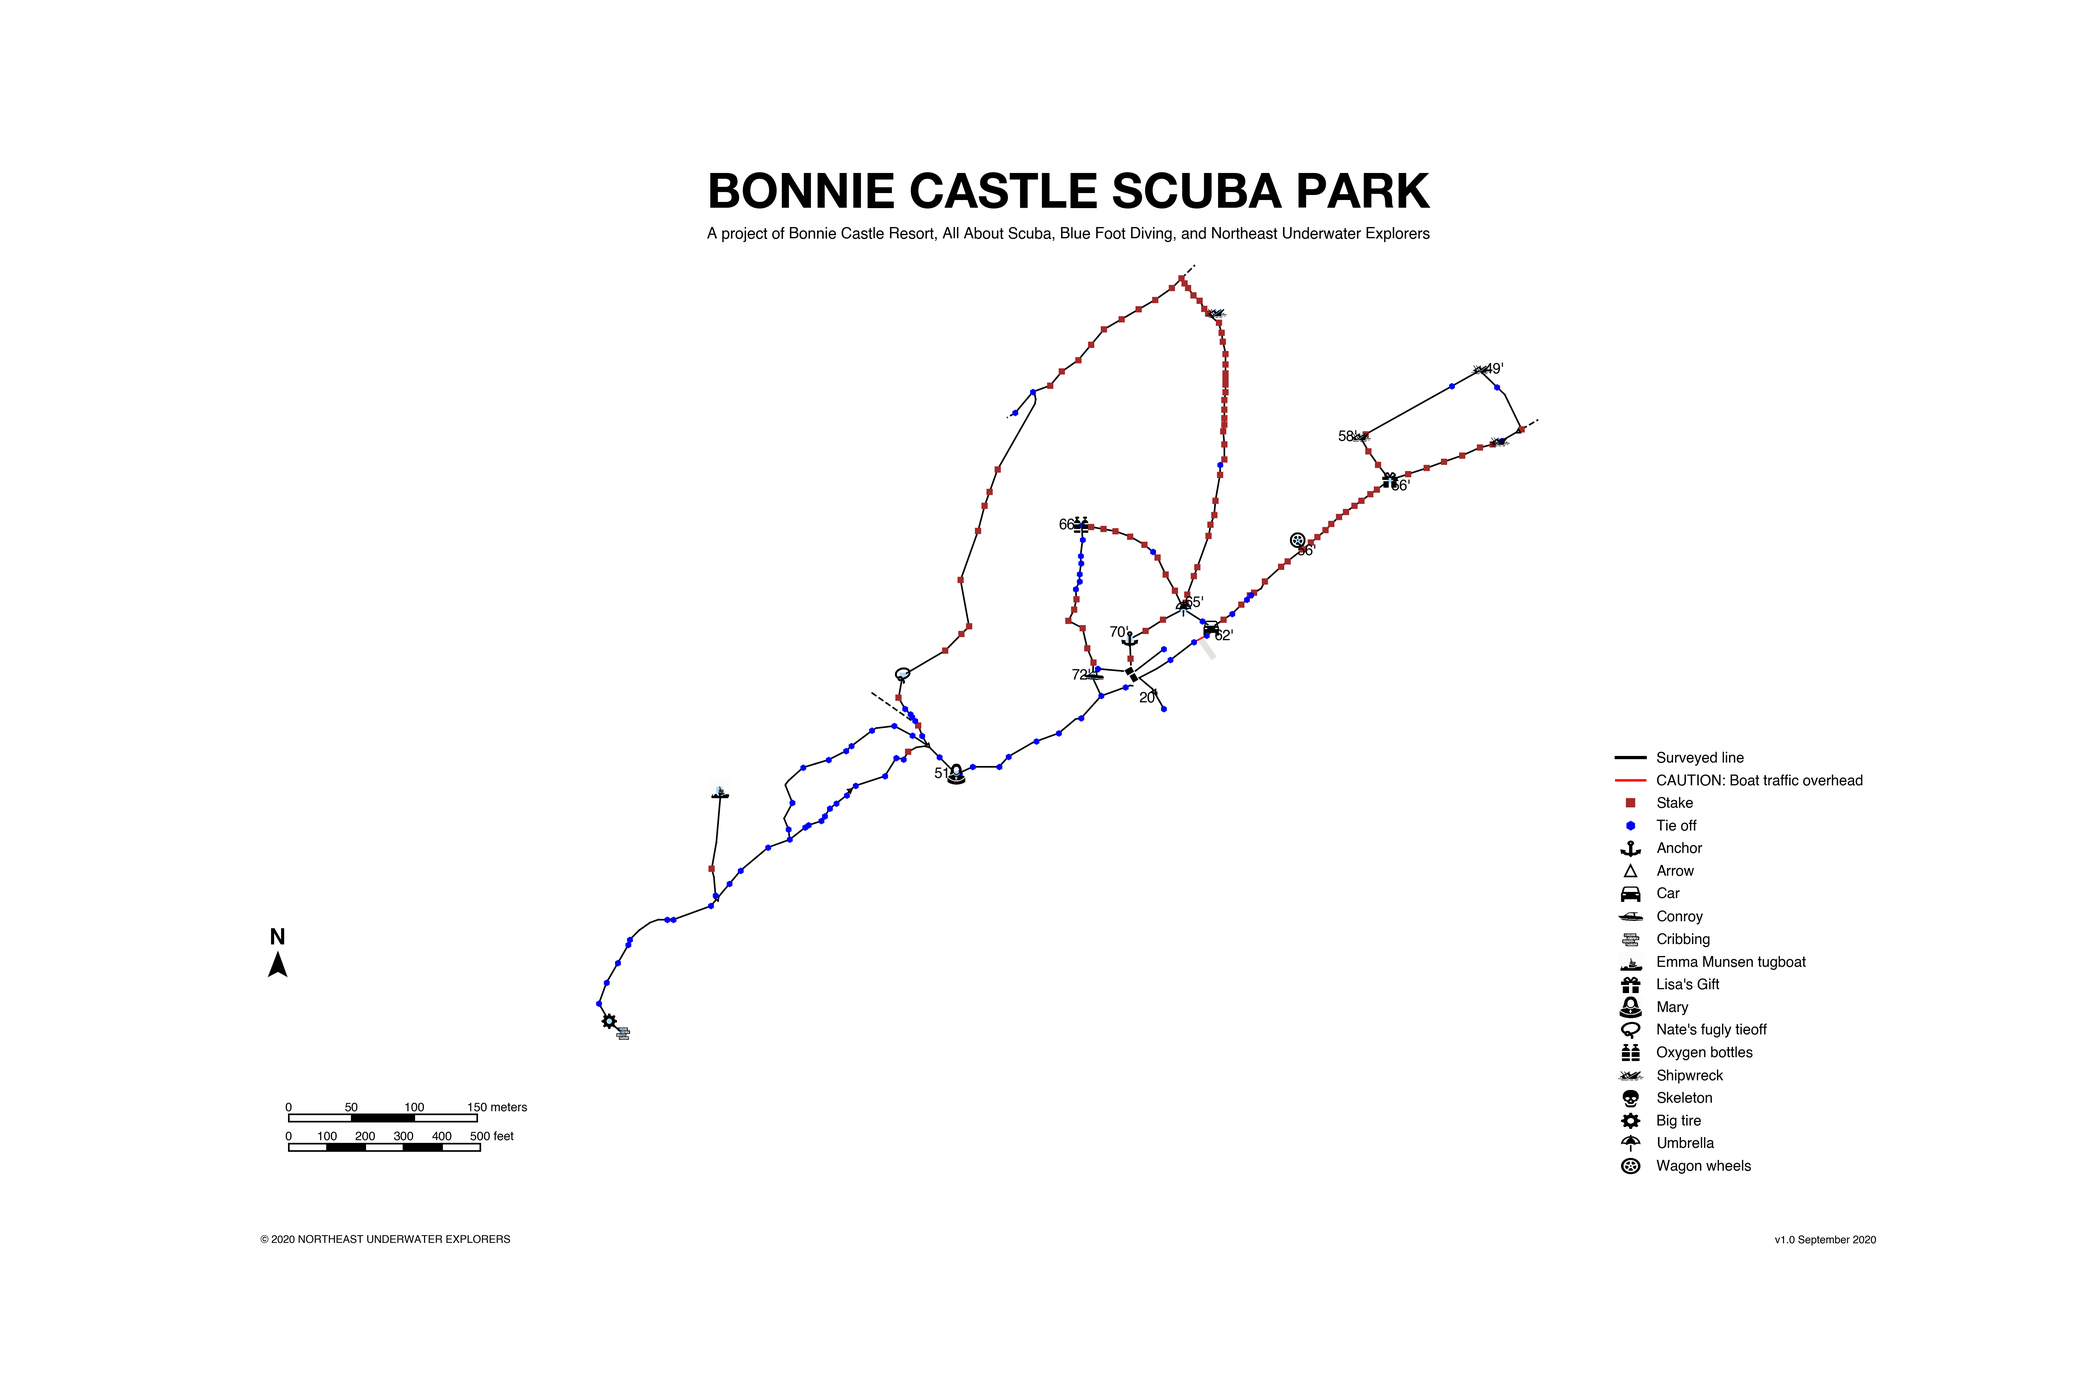
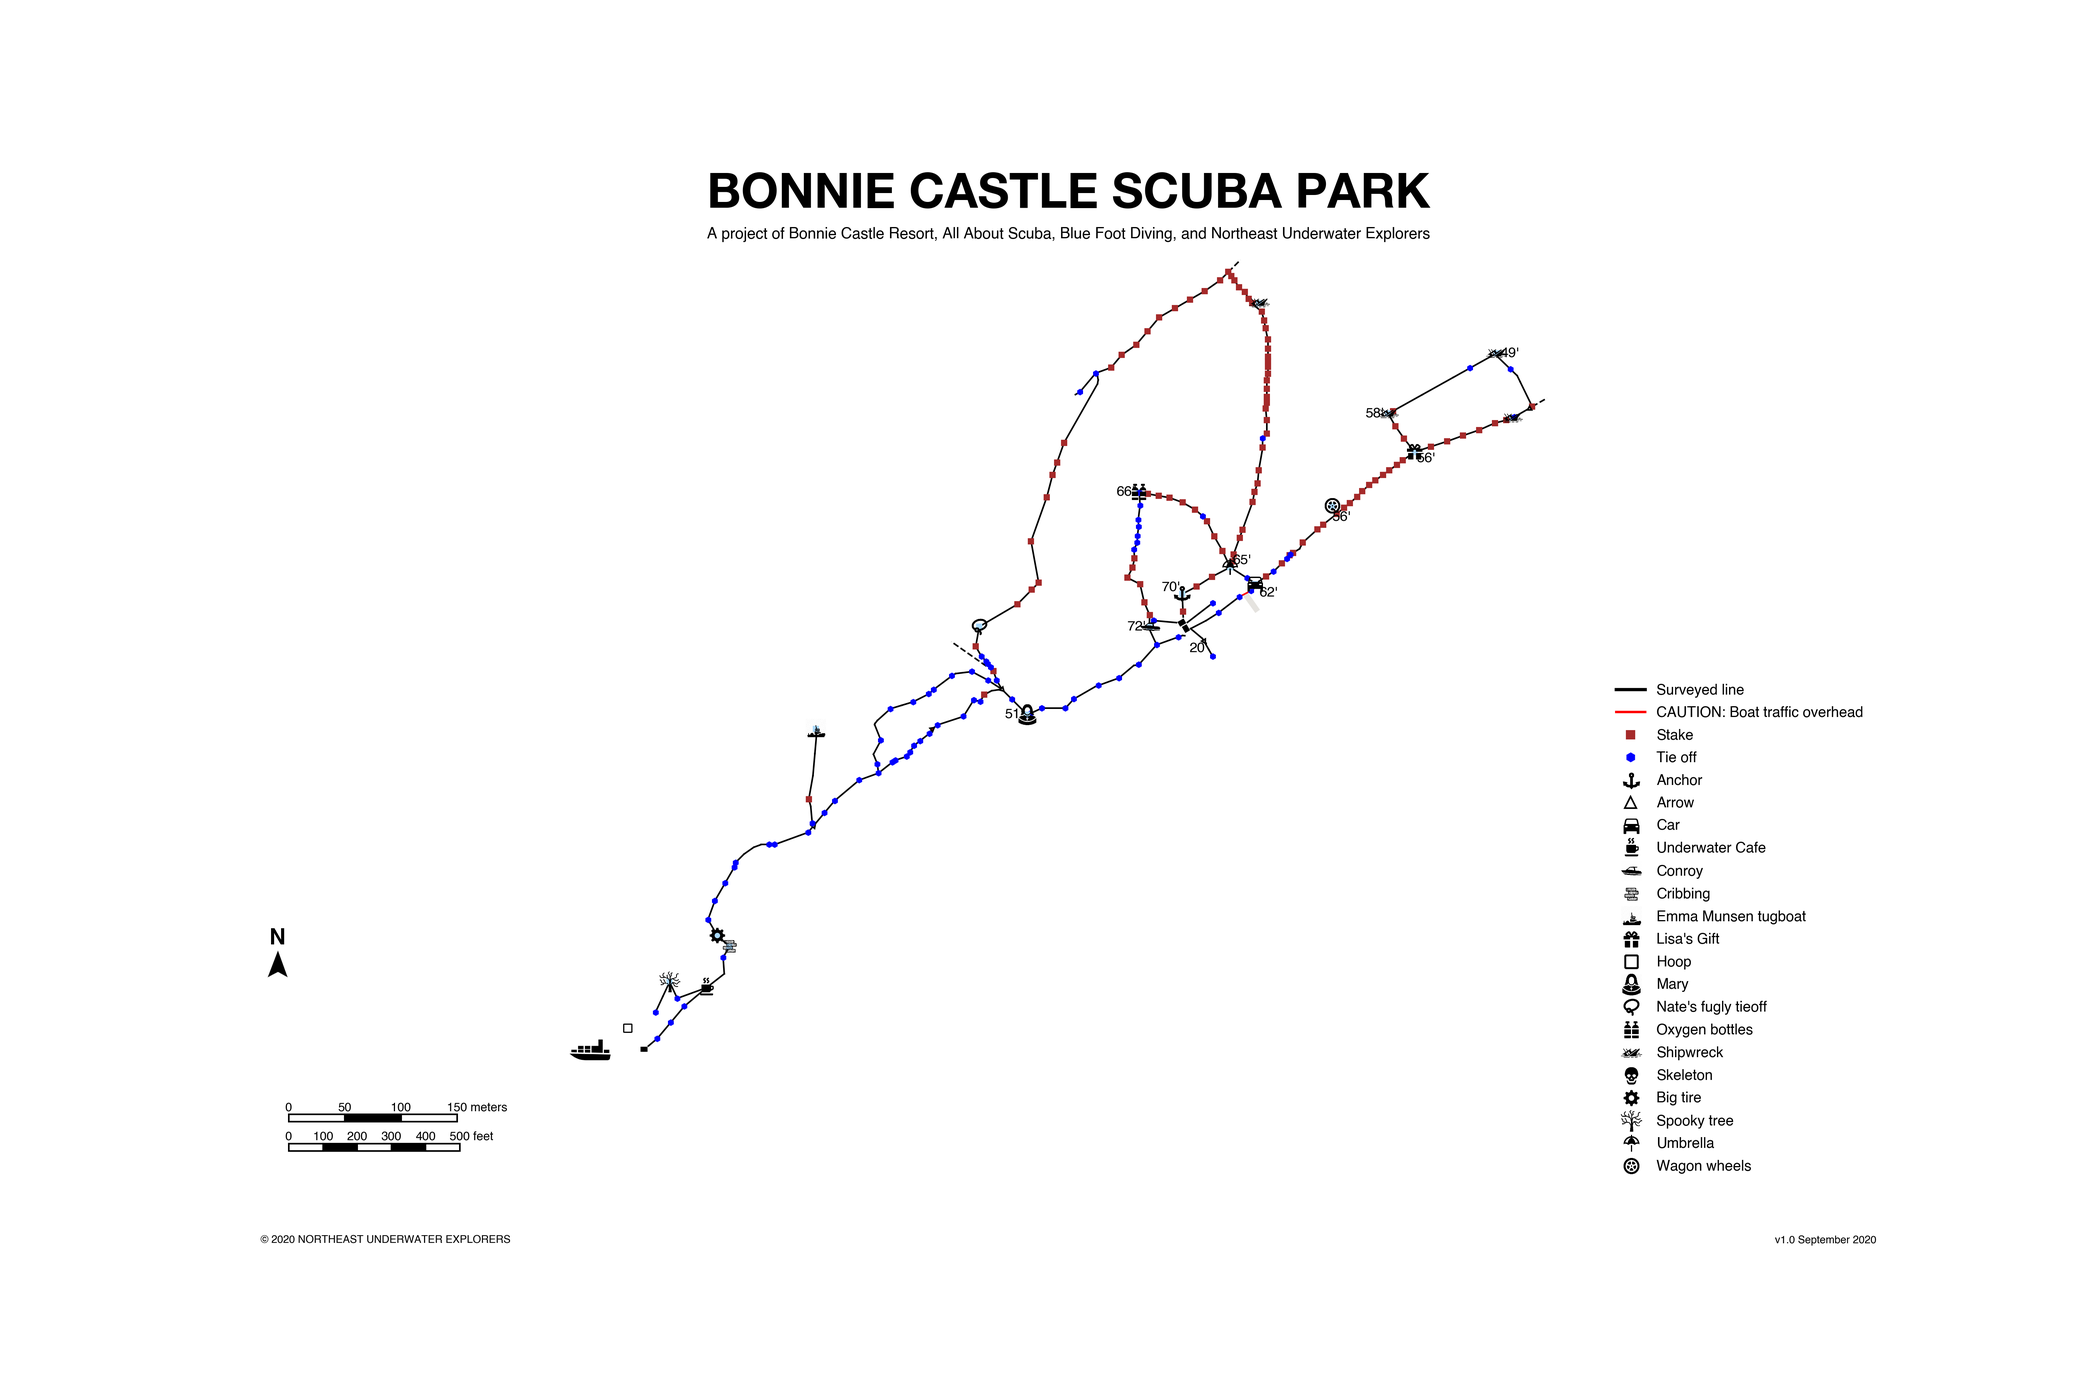
Add survey data near the islander

diff --git a/data.py b/data.py
@@ -57,6 +57,12 @@ class Landmark(Enum):
     TRACTOR_TIRE = 36
     MARY =37
     CRIBBING=38
+    CAFE = 39
+    ISLANDER_PLATFORM = 40
+    SPOOKY_TREE = 41
+    JUG = 42
+    ISLANDER = 43
+    HOOP = 44
 
 @dataclass(frozen=True)
 class AbstractLine:
@@ -138,10 +144,10 @@ BarToPlatform = (
     Arrow(distance=8, angle=150),
     # TieOff(), JP's tent
     SurveyedLine(length_in=9, angle=325),
-    SaveLandmark(Landmark.MOORING_BLOCK_20FT, depth_angle=200, depth=20, depth_distance_zoom=0.8, icon_path='icons/mooringblock.png', transparent_icon=True),
+    SaveLandmark(landmark=Landmark.MOORING_BLOCK_20FT, depth_angle=200, depth=20, depth_distance_zoom=0.8, icon_path='icons/mooringblock.png', transparent_icon=True),
     SurveyedLine(length_ft=44, length_in=8, angle=310),
-    # SaveLandmark(Landmark.SKELETON, depth=64,depth_angle=50, depth_distance_zoom=1.15, icon_path='icons/mooringblock.png', transparent_icon=True),
-    SaveLandmark(Landmark.SKELETON, icon_path='icons/mooringblock.png', transparent_icon=True),
+    # SaveLandmark(landmark=Landmark.SKELETON, depth=64,depth_angle=50, depth_distance_zoom=1.15, icon_path='icons/mooringblock.png', transparent_icon=True),
+    SaveLandmark(landmark=Landmark.SKELETON, icon_path='icons/mooringblock.png', transparent_icon=True),
     )
 
 SkeletonToMooringBlock2ViaPokerRun = (
@@ -150,9 +156,9 @@ SkeletonToMooringBlock2ViaPokerRun = (
     TieOff(),
     SurveyedLine(length_ft=72, angle=50),
     TieOff(force_draw=True),
-    SaveLandmark(Landmark.BOAT_RAMP_1),
+    SaveLandmark(landmark=Landmark.BOAT_RAMP_1),
     MarinaLine(length_ft=35, length_in=10, angle=60),
-    SaveLandmark(Landmark.BOAT_RAMP_2),
+    SaveLandmark(landmark=Landmark.BOAT_RAMP_2),
     TieOff(force_draw=True),
     SurveyedLine(length_ft=20, length_in=8, angle=50),
     Jump(length_ft=8, angle=315),
@@ -187,7 +193,7 @@ SkeletonToMooringBlock2ViaMooringBlocks = (
 
 MooringBlock2ToMooringBlock1 = (
     Jump(length_ft=25, length_in=9, angle=230),
-    SaveLandmark(Landmark.MOORING_BLOCK_1, icon_path='icons/mooringblock.png', transparent_icon=True),
+    SaveLandmark(landmark=Landmark.MOORING_BLOCK_1, icon_path='icons/mooringblock.png', transparent_icon=True),
     )
 
 MooringBlock1ToMooringBlock5ViaPokerRun = (
@@ -199,7 +205,7 @@ MooringBlock1ToMooringBlock5ViaPokerRun = (
     Jump(length_ft=6, length_in=4, angle=200),
     SurveyedLine(length_ft=49, length_in=2, angle=160),
     TieOff(),
-    SaveLandmark(Landmark.ANGLE_IRON),
+    SaveLandmark(landmark=Landmark.ANGLE_IRON),
     SurveyedLine(length_ft=65, length_in=10, angle=75),
     TieOff(),
     SurveyedLine(length_ft=12, length_in=1, angle=75),
@@ -413,7 +419,7 @@ UmbrellaToRockIsland = (
     Stake(),
     SurveyedLine(length_ft=22, angle=310, flip_text_side=True),
     SurveyedLine(length_ft=15, angle=40),
-    SaveLandmark(Landmark.ROWBOAT, icon_path='icons/shipwreck.png'),
+    SaveLandmark(landmark=Landmark.ROWBOAT, icon_path='icons/shipwreck.png'),
     Jump(length_ft=15, angle=220),
     SurveyedLine(length_ft=15, angle=315, flip_text_side=True),
     Stake(),
@@ -429,7 +435,7 @@ UmbrellaToRockIsland = (
     Stake(),
     SurveyedLine(length_ft=15, angle=325),
     Stake(),
-    SaveLandmark(Landmark.ROCK_ISLAND_BOTTLE)
+    SaveLandmark(landmark=Landmark.ROCK_ISLAND_BOTTLE)
     )
 
 UmbrellaToOxygenTanks = (
@@ -454,7 +460,7 @@ UmbrellaToOxygenTanks = (
     SurveyedLine(length_ft=32, length_in=6, angle=280),
     Stake(),
     SurveyedLine(length_ft=27, angle=280),
-    SaveLandmark(Landmark.OXYGEN_TANKS, depth=66, depth_angle=270, icon_path='glyphicons-pro/glyphicons-basic-2-3/png/glyphicons-basic-256-oxygen-bottles@3x.png'),
+    SaveLandmark(landmark=Landmark.OXYGEN_TANKS, depth=66, depth_angle=270, icon_path='glyphicons-pro/glyphicons-basic-2-3/png/glyphicons-basic-256-oxygen-bottles@3x.png'),
 )
 
 UmbrellaToOxygenTanksTruncated = (
@@ -482,7 +488,7 @@ RockIslandBottleClockwise = (
     Stake(),
     SurveyedLine(length_ft=48, angle=250),
     TieOff(),
-    SaveLandmark(Landmark.ROCK_ISLAND_T)
+    SaveLandmark(landmark=Landmark.ROCK_ISLAND_T)
     )
 
 RockIslandTClockwise = (
@@ -515,7 +521,7 @@ AngleIronToMary = (
     TieOff(),
     SurveyedLine(length_ft=9, angle=250, alt_text=''),
     TieOff(force_draw=True),
-    SaveLandmark(Landmark.MARY, icon_path='icons/mary.png', depth=51, depth_angle=270),
+    SaveLandmark(landmark=Landmark.MARY, icon_path='icons/mary.png', depth=51, depth_angle=270),
     )
 
 AngleIronToMaryTruncated = (
@@ -526,7 +532,7 @@ MaryToFourWay = (
     SurveyedLine(length_ft=63, angle=315),
     TieOff(),
     SurveyedLine(length_ft=42, angle=315, flip_text_side=True),
-    SaveLandmark(Landmark.FOUR_WAY),
+    SaveLandmark(landmark=Landmark.FOUR_WAY),
     )
 
 JJJ = (
@@ -560,7 +566,7 @@ JJJ = (
     TieOff(),
     SurveyedLine(length_ft=53, angle=230),
     TieOff(),
-    SaveLandmark(Landmark.BYPASS_END_JJJ),
+    SaveLandmark(landmark=Landmark.BYPASS_END_JJJ),
     )
 
 FourWayToNatesTieoff = (
@@ -582,7 +588,7 @@ FourWayToNatesTieoff = (
     SurveyedLine(length_ft=34, angle=330),
     Stake(),
     SurveyedLine(length_ft=59, angle=10),
-    SaveLandmark(Landmark.NATES_TIEOFF, icon_path='glyphicons-pro/glyphicons-basic-2-3/png/glyphicons-basic-233-lasso@3x.png'),
+    SaveLandmark(landmark=Landmark.NATES_TIEOFF, icon_path='glyphicons-pro/glyphicons-basic-2-3/png/glyphicons-basic-233-lasso@3x.png'),
     )
 
 NatesTieoffToRockIsland = (
@@ -634,7 +640,7 @@ FourWayToBypassEndSixtyFoot = (
     SurveyedLine(length_ft=30, angle=160),
     TieOff(),
     SurveyedLine(length_ft=26, angle=175),
-    SaveLandmark(Landmark.BYPASS_END_SIXTY_FOOT),
+    SaveLandmark(landmark=Landmark.BYPASS_END_SIXTY_FOOT),
     )
 
 BypassEndToBobsArrow = (
@@ -646,7 +652,7 @@ BypassEndToBobsArrow = (
     TieOff(),
     SurveyedLine(length_ft=50, angle=220),
     Arrow(distance=0, angle=40),
-    SaveLandmark(Landmark.BOBS_ARROW)
+    SaveLandmark(landmark=Landmark.BOBS_ARROW)
     )
 
 BobsArrowToEmmaMunsen = (
@@ -659,10 +665,10 @@ BobsArrowToEmmaMunsen = (
     SurveyedLine(length_ft=65, angle=5),
     SurveyedLine(length_ft=50, angle=5),
     SurveyedLine(length_ft=22, angle=355),
-    SaveLandmark(Landmark.EMMA_MUNSEN, icon_path='icons/tugboat.png')
+    SaveLandmark(landmark=Landmark.EMMA_MUNSEN, icon_path='icons/tugboat.png')
 )
 
-BobsArrowToIslander = (
+BobsArrowToIslanderPlatform = (
     SurveyedLine(length_ft=25, angle=220),
     TieOff(),
     SurveyedLine(length_ft=104, angle=250),
@@ -683,14 +689,44 @@ BobsArrowToIslander = (
     SurveyedLine(length_ft=58, angle=200),
     TieOff(),
     SurveyedLine(length_ft=54, angle=150),
-    SaveLandmark(Landmark.TRACTOR_TIRE, icon_path='glyphicons-pro/glyphicons-basic-2-3/png/glyphicons-basic-137-cogwheel@3x.png'),
+    SaveLandmark(landmark=Landmark.TRACTOR_TIRE, icon_path='glyphicons-pro/glyphicons-basic-2-3/png/glyphicons-basic-137-cogwheel@3x.png'),
     SurveyedLine(length_ft=48, angle=132),
-    SaveLandmark(Landmark.CRIBBING, icon_path='icons/cribbing.png'),
+    SaveLandmark(landmark=Landmark.CRIBBING, icon_path='icons/cribbing.png'),
+    Jump(length_ft=0, angle=0), # TODO
+    SurveyedLine(length_ft=37, angle=210),
+    TieOff(),
+    SurveyedLine(length_ft=48, angle=176),
+    SurveyedLine(length_ft=66, angle=232),
+    SaveLandmark(landmark=Landmark.CAFE, icon_path='glyphicons-pro/glyphicons-basic-2-3/png/glyphicons-basic-273-coffee-mug@3x.png'),
+    SurveyedLine(length_ft=85, angle=230),
+    TieOff(),
+    SurveyedLine(length_ft=61, angle=220),
+    TieOff(),
+    SurveyedLine(length_ft=62, angle=220),
+    TieOff(),
+    SurveyedLine(length_ft=34, angle=230),
+    SaveLandmark(landmark=Landmark.ISLANDER_PLATFORM),
 )
+
+CafeToSpookyTreeToIslander = (
+    SurveyedLine(length_ft=91, angle=250),
+    TieOff(),
+    SurveyedLine(length_ft=53, angle=335),
+    SaveLandmark(landmark=Landmark.SPOOKY_TREE, icon_path='icons/spookytree.png'),
+    SurveyedLine(length_ft=47, angle=205),
+    SurveyedLine(length_ft=51, angle=205),
+    SaveLandmark(landmark=Landmark.JUG),
+    TieOff(), # THIS IS THE JUG
+    Jump(length_ft=94, angle=240),
+    SaveLandmark(landmark=Landmark.HOOP, icon_path='glyphicons-pro/glyphicons-basic-2-3/png/glyphicons-basic-154-square-empty@2x.png', transparent_icon=True),
+    Jump(length_ft=87, angle=240),
+    Jump(length_ft=40, angle=240), # THIS IS A FUDGE, ISLANDER IS 120 FEET LONG but we measured nearer to the stern
+    SaveLandmark(landmark=Landmark.ISLANDER, icon_path='icons/islander.png', transparent_icon=True),
+    )
     
 
 ExampleData = (
-    SaveLandmark(Landmark.MY_BOAT, icon_path='icons/shipwreck.png'),
+    SaveLandmark(landmark=Landmark.MY_BOAT, icon_path='icons/shipwreck.png'),
     SurveyedLine(length_ft=100, angle=90),
     Stake(),
     UnsurveyedLine(length_ft=100, angle=45, alt_text='(Unsurveyed line)'),

diff --git a/the_survey.py b/the_survey.py
@@ -5,6 +5,7 @@ from base import (
     draw_boat_ramp,
     draw_circuit,
     draw_compass_rose,
+    draw_islander_platforms,
     draw_platforms,
     draw_scale,
     get_landmark_coordinates,
@@ -15,8 +16,9 @@ from data import (
     AngleIronToMary,
     BarToPlatform,
     BobsArrowToEmmaMunsen,
-    BobsArrowToIslander,
+    BobsArrowToIslanderPlatform,
     BypassEndToBobsArrow,
+    CafeToSpookyTreeToIslander,
     CarToLisasGift,
     ConroyToOxygenTanks,
     FourWayToBypassEndSixtyFoot,
@@ -52,12 +54,12 @@ ax.set_aspect(aspect='equal')
 
 FONTSIZE=30
 LANDMARK_ZOOM=40
-LEGEND_IMAGE_STRETCH=(-2, 7)
-LEGEND_IMAGE_OFFSET=(-1, 3)
+LEGEND_IMAGE_STRETCH=(-5, 7)
+LEGEND_IMAGE_OFFSET=(-2, 3)
 
 draw_kwargs = {
-    'depth_distance': 1.10 * FONTSIZE,
-    'depth_fontsize': 0.30 * FONTSIZE,
+    'depth_distance': 1.3 * FONTSIZE,
+    'depth_fontsize': 0.29 * FONTSIZE,
     'draw_tieoffs': True,
     'include_depth': True,
     'include_mooringblocks': False,
@@ -110,11 +112,13 @@ draw_circuit(ax, Landmark.FOUR_WAY, FourWayToBypassEndSixtyFoot, JJJ, **draw_kwa
 
 draw(ax, Landmark.BYPASS_END_JJJ, BypassEndToBobsArrow, **draw_kwargs)
 
-draw(ax, Landmark.BOBS_ARROW, BobsArrowToIslander, **draw_kwargs)
+draw(ax, Landmark.BOBS_ARROW, BobsArrowToIslanderPlatform, **draw_kwargs)
 
 draw(ax, Landmark.BOBS_ARROW, BobsArrowToEmmaMunsen, **draw_kwargs)
 
 draw(ax, Landmark.ROCK_ISLAND_BOTTLE, RockIslandBottleClockwise, **draw_kwargs)
+
+draw(ax, Landmark.CAFE, CafeToSpookyTreeToIslander, **draw_kwargs)
 
 ######
 #
@@ -167,6 +171,7 @@ plt.ylim(y_min, y_max)
 
 # draw_compass_rose()
 draw_platforms(fontsize=None)
+draw_islander_platforms(fontsize=None)
 draw_boat_ramp()
 draw_scale(corner_coordinates=((x_min, y_min), (x_max, y_max)), fontsize=0.25 * FONTSIZE, feet=(0, 100, 200, 300, 400, 500), meters=(0, 50, 100, 150))
 draw_compass_rose(ax, corner_coordinates=((x_min, y_min), (x_max, y_max)), zoom=0.05)
@@ -188,31 +193,37 @@ MARINA_LINE = Line2D([0], [0], label='CAUTION: Boat traffic overhead', color='re
 
 ANCHOR = Line2D([0], [0], label='Anchor')
 CAR = Line2D([0], [0], label='Car')
+CAFE = Line2D([0], [0], label='Underwater Cafe')
 CONROY = Line2D([0], [0], label='Conroy')
 CRIBBING = Line2D([0], [0], label='Cribbing')
 EMMA_MUNSEN_TUGBOAT = Line2D([0], [0], label='Emma Munsen tugboat')
 GIFT = Line2D([0], [0], label='Lisa\'s Gift')
+HOOP = Line2D([0], [0], label='Hoop')
 MARY = Line2D([0], [0], label='Mary')
 NATES_TIEOFF = Line2D([0], [0], label='Nate\'s fugly tieoff')
 OXYGEN = Line2D([0], [0], label='Oxygen bottles')
 SHIPWRECK = Line2D([0], [0], label='Shipwreck')
 SKELETON = Line2D([0], [0], label='Skeleton')
 TRACTOR_TIRE = Line2D([0], [0], label='Big tire')
+TREE = Line2D([0], [0], label='Spooky tree')
 UMBRELLA = Line2D([0], [0], label='Umbrella')
 WHEEL = Line2D([0], [0], label='Wagon wheels')
 
 anchor_handler = ImageHandler(image_path='glyphicons-pro/glyphicons-basic-2-3/png/glyphicons-basic-258-anchor@3x.png', image_stretch=LEGEND_IMAGE_STRETCH, image_offset=LEGEND_IMAGE_OFFSET)
 car_handler = ImageHandler(image_path='glyphicons-pro/glyphicons-basic-2-3/png/glyphicons-basic-6-car@3x.png', image_stretch=LEGEND_IMAGE_STRETCH, image_offset=LEGEND_IMAGE_OFFSET)
+cafe_handler = ImageHandler(image_path='glyphicons-pro/glyphicons-basic-2-3/png/glyphicons-basic-273-coffee-mug@3x.png', image_stretch=LEGEND_IMAGE_STRETCH, image_offset=LEGEND_IMAGE_OFFSET)
 conroy_handler = ImageHandler(image_path='icons/conroy.png', image_stretch=LEGEND_IMAGE_STRETCH, image_offset=LEGEND_IMAGE_OFFSET)
 cribbing_handler = ImageHandler(image_path='icons/cribbing.png', image_stretch=LEGEND_IMAGE_STRETCH, image_offset=LEGEND_IMAGE_OFFSET)
 emma_munsen_tugboat_handler = ImageHandler(image_path='icons/tugboat.png', image_stretch=LEGEND_IMAGE_STRETCH, image_offset=LEGEND_IMAGE_OFFSET)
 gift_handler = ImageHandler(image_path='glyphicons-pro/glyphicons-basic-2-3/png/glyphicons-basic-70-gift@3x.png', image_stretch=LEGEND_IMAGE_STRETCH, image_offset=LEGEND_IMAGE_OFFSET)
+hoop_handler = ImageHandler(image_path='glyphicons-pro/glyphicons-basic-2-3/png/glyphicons-basic-154-square-empty@2x.png', image_stretch=LEGEND_IMAGE_STRETCH, image_offset=LEGEND_IMAGE_OFFSET)
 mary_handler = ImageHandler(image_path='icons/mary.png', image_stretch=LEGEND_IMAGE_STRETCH, image_offset=LEGEND_IMAGE_OFFSET)
 nates_tieoff_handler = ImageHandler(image_path='glyphicons-pro/glyphicons-basic-2-3/png/glyphicons-basic-233-lasso@3x.png', image_stretch=LEGEND_IMAGE_STRETCH, image_offset=LEGEND_IMAGE_OFFSET)
 oxygen_handler = ImageHandler(image_path='glyphicons-pro/glyphicons-basic-2-3/png/glyphicons-basic-256-oxygen-bottles@3x.png', image_stretch=LEGEND_IMAGE_STRETCH, image_offset=LEGEND_IMAGE_OFFSET)
 shipwreck_handler = ImageHandler(image_path='icons/shipwreck.png', image_stretch=LEGEND_IMAGE_STRETCH, image_offset=LEGEND_IMAGE_OFFSET)
 skeleton_handler = ImageHandler(image_path='glyphicons-pro/glyphicons-basic-2-3/png/glyphicons-basic-500-skull@3x.png', image_stretch=LEGEND_IMAGE_STRETCH, image_offset=LEGEND_IMAGE_OFFSET)
 tractor_tire_handler = ImageHandler(image_path='glyphicons-pro/glyphicons-basic-2-3/png/glyphicons-basic-137-cogwheel@3x.png', image_stretch=LEGEND_IMAGE_STRETCH, image_offset=LEGEND_IMAGE_OFFSET)
+tree_handler = ImageHandler(image_path='icons/spookytree.png', image_stretch=LEGEND_IMAGE_STRETCH, image_offset=LEGEND_IMAGE_OFFSET)
 umbrella_handler = ImageHandler(image_path='glyphicons-pro/glyphicons-basic-2-3/png/glyphicons-basic-14-beach-umbrella@3x.png', image_stretch=LEGEND_IMAGE_STRETCH, image_offset=LEGEND_IMAGE_OFFSET)
 wheel_handler = ImageHandler(image_path='glyphicons-pro/glyphicons-basic-2-3/png/glyphicons-basic-677-car-wheel@3x.png', image_stretch=LEGEND_IMAGE_STRETCH, image_offset=LEGEND_IMAGE_OFFSET)
 
@@ -229,32 +240,38 @@ ax.legend(
         ANCHOR,
         ARROW,
         CAR,
+        CAFE,
         CONROY,
         CRIBBING,
         EMMA_MUNSEN_TUGBOAT,
         GIFT,
+        HOOP,
         MARY,
         NATES_TIEOFF,
         OXYGEN,
         SHIPWRECK,
         SKELETON,
         TRACTOR_TIRE,
+        TREE,
         UMBRELLA,
         WHEEL,
         ],
     handler_map={
         ANCHOR: anchor_handler,
         CAR: car_handler,
+        CAFE: cafe_handler,
         CONROY: conroy_handler,
         CRIBBING: cribbing_handler,
         EMMA_MUNSEN_TUGBOAT: emma_munsen_tugboat_handler,
         GIFT: gift_handler,
+        HOOP: hoop_handler,
         MARY: mary_handler,
         NATES_TIEOFF: nates_tieoff_handler,
         OXYGEN: oxygen_handler,
         SHIPWRECK: shipwreck_handler,
         SKELETON: skeleton_handler,
         TRACTOR_TIRE: tractor_tire_handler,
+        TREE: tree_handler,
         UMBRELLA: umbrella_handler,
         WHEEL: wheel_handler,
         },

diff --git a/base.py b/base.py
@@ -311,6 +311,29 @@ def draw_platforms(fontsize):
         (x_mid, y_mid) = (x + length2 * cos(__radians(angle)) / 2, y + length2 * sin(__radians(angle)) / 2)
         plt.text(x=x_mid, y=y_mid, s='30\'  ', color='white', fontsize=fontsize, rotation=-angle, alpha=3, ha='center', va='center')
  
+def draw_islander_platforms(fontsize):
+    length = 16
+    width = 11
+    angle = 180
+
+    (x, y) = __LANDMARK_COORDINATES[Landmark.ISLANDER_PLATFORM]
+    x -= 5 # fudge
+    y -= 4 # fudge
+    corners = [(x, y)]
+    (x, y) = (x + width * cos(__radians(angle)),  y + width * sin(__radians(angle)))
+    corners += [(x, y)]
+    (x, y) = (x + length * cos(__radians(angle + 90)),  y + length * sin(__radians(angle + 90)))
+    corners += [(x, y)]
+    (x, y) = (x + width * cos(__radians(angle + 180)),  y + width * sin(__radians(angle + 180)))
+    corners += [(x, y)]
+    platform = Polygon(xy=corners, closed=True, color='black')
+
+    plt.gca().add_line(platform)
+
+    if fontsize:
+        (x_mid, y_mid) = (x + length2 * cos(__radians(angle)) / 2, y + length2 * sin(__radians(angle)) / 2)
+        plt.text(x=x_mid, y=y_mid, s='27\'  ', color='white', fontsize=fontsize, rotation=-angle, alpha=3, ha='center', va='center')
+
 def draw_boat_ramp():
     length = 60
     width = (35 + 10 / 12) / 3
